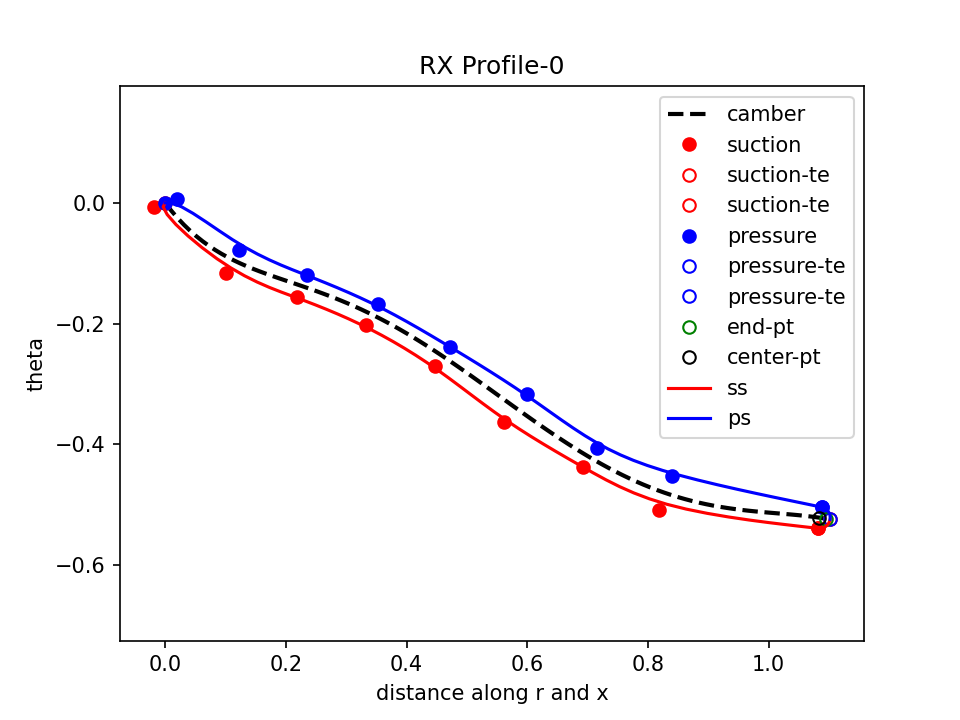
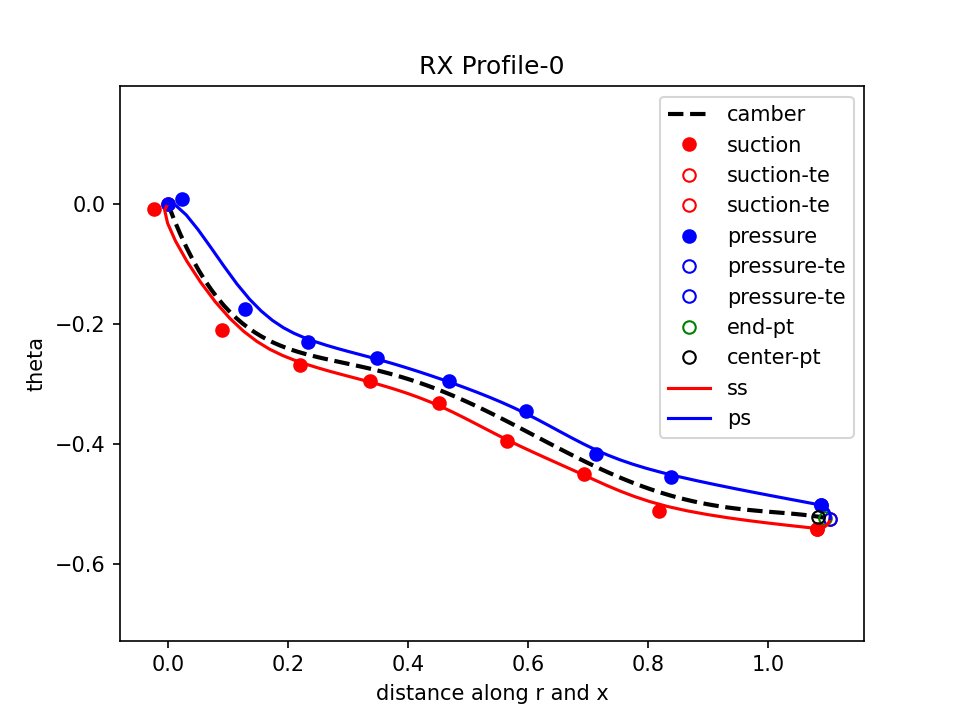
some changes

diff --git a/pyturbo/aero/centrif.py b/pyturbo/aero/centrif.py
@@ -14,7 +14,6 @@ class WaveDirection(Enum):
     x:int = 0
     r:int = 1
 
-
 @dataclass 
 class TrailingEdgeProperties:
     # Flat Trailing Edge 
@@ -61,8 +60,11 @@ class WavyBladeProperties:
     PS_Wave:npt.NDArray
     LE_Wave_angle:Optional[List[float]]=None
     TE_Wave_angle:Optional[List[float]]=None
-    
 
+@dataclass
+class SplitterProperties:    
+    position:Tuple[float,float] = (0.5,1)
+    
 @dataclass
 class CentrifProfile:
     percent_span:float                      
@@ -129,10 +131,10 @@ class Centrif:
     npts_chord:int              
     npts_span:int               
     
-    ss_pts:npt.NDArray          # shape=(nspan, nchord, 3)
-    ps_pts:npt.NDArray          # shape=(nspan, nchord, 3)
-    ss_profile_pts:npt.NDArray  # shape=(nprofile, nchord, 3)
-    ps_profile_pts:npt.NDArray  # shape=(nprofile, nchord, 3)
+    ss_pts_cart:npt.NDArray         # shape=(nspan, chord, 3) x,y,z
+    ps_pts_cart:npt.NDArray         # shape=(nspan, chord, 3) x,y,z
+    ss_pts_cyl:npt.NDArray          # shape=(nspan, nchord, 3)
+    ps_pts_cyl:npt.NDArray          # shape=(nspan, nchord, 3)
     ss_rx_pts:npt.NDArray       # shape=(nprofile,nchord,6), 6 = rx,theta,r,x,t_camber,t_span
     ps_rx_pts:npt.NDArray
     camb_rx_func:List[PchipInterpolator]
@@ -481,23 +483,34 @@ class Centrif:
             self.ss_rx_pts[i,:,5] = self.t_span[i,:] # tspan 
             self.ps_rx_pts[i,:,5] = self.t_span[i,:] 
             
+    def __build_splitter__(self):
+        """Builds the splitter 
+        """
+        for profile in self.profiles:
+            npoint_ss = len(profile.ss_thickness)+3 # LE Start, Leading Edge Thickness, SS_Thickness, TE_Radius
+            npoint_ps = len(profile.ss_thickness)+3 # LE Start, Leading Edge Thickness, SS_Thickness, TE_Radius
+            SS = np.zeros((npoint_ss,2)); PS = np.zeros((npoint_ps,2))  # rx, theta 
             
             
+
+        cx,cy = self.camber.get_point(self.splitter_camber_start)
+        dx,dy = self.camber.get_point_dt(self.splitter_camber_start)
+
     def __interpolate__(self):    
         """Interpolate the control profiles and get x,r,th
         """
-        self.ss_pts = np.zeros(shape=(self.npts_span,self.npts_chord,3)) # 3 = (x,r,theta)
-        self.ps_pts = np.zeros(shape=(self.npts_span,self.npts_chord,3)) # 3 = (x,r,theta)
+        self.ss_pts_cyl = np.zeros(shape=(self.npts_span,self.npts_chord,3)) # 3 = (x,r,theta)
+        self.ps_pts_cyl = np.zeros(shape=(self.npts_span,self.npts_chord,3)) # 3 = (x,r,theta)
         
         for j in range(self.npts_chord):
             tspan = np.linspace(0,self.t_span[-1,j],self.ss_rx_pts.shape[0])
-            self.ss_pts[:,j,0] = csapi(tspan,self.ss_rx_pts[:,j,3],self.t_span[:,j])   # x
-            self.ss_pts[:,j,1] = csapi(tspan,self.ss_rx_pts[:,j,2],self.t_span[:,j])   # r
-            self.ss_pts[:,j,2] = csapi(tspan,self.ss_rx_pts[:,j,1],self.t_span[:,j])   # th
+            self.ss_pts_cyl[:,j,0] = csapi(tspan,self.ss_rx_pts[:,j,3],self.t_span[:,j])   # x
+            self.ss_pts_cyl[:,j,1] = csapi(tspan,self.ss_rx_pts[:,j,2],self.t_span[:,j])   # r
+            self.ss_pts_cyl[:,j,2] = csapi(tspan,self.ss_rx_pts[:,j,1],self.t_span[:,j])   # th
             
-            self.ps_pts[:,j,0] = csapi(tspan,self.ps_rx_pts[:,j,3],self.t_span[:,j])   # x
-            self.ps_pts[:,j,1] = csapi(tspan,self.ps_rx_pts[:,j,2],self.t_span[:,j])   # r
-            self.ps_pts[:,j,2] = csapi(tspan,self.ps_rx_pts[:,j,1],self.t_span[:,j])   # th
+            self.ps_pts_cyl[:,j,0] = csapi(tspan,self.ps_rx_pts[:,j,3],self.t_span[:,j])   # x
+            self.ps_pts_cyl[:,j,1] = csapi(tspan,self.ps_rx_pts[:,j,2],self.t_span[:,j])   # r
+            self.ps_pts_cyl[:,j,2] = csapi(tspan,self.ps_rx_pts[:,j,1],self.t_span[:,j])   # th
             
             
     
@@ -516,12 +529,15 @@ class Centrif:
             t2 = cut.get_t(cut.length-self.tip_clearance)
             self.t_span[:,j] = exp_ratio(1.2,self.npts_span,maxvalue=t2)
     
-    def build(self,npts_span:int=100, npts_chord:int=100):
+    def build(self,npts_span:int=100, npts_chord:int=100,nblades:int=3,splitters:int=1):
         """Build the centrif blade 
 
         Args:
-            npts_span (int, optional): _description_. Defaults to 100.
-            npts_chord (int, optional): _description_. Defaults to 100.
+            npts_span (int, optional): number of points in spanwise direction. Defaults to 100.
+            npts_chord (int, optional): number of points in chord. Defaults to 100.
+            nblades (int, optional): number of blades. Defaults to 3
+            splitters (int, optional): splitters in between blades. Defaults to 1
+            
         """
         self.npts_chord = npts_chord; self.npts_span = npts_span
         self.t_hub = np.linspace(0,1,npts_chord)
@@ -538,6 +554,8 @@ class Centrif:
         self.__tip_clearance__()
         self.__apply_thickness__()  # Creates the flattened profiles
         self.__interpolate__()
+        
+        self.__add_splitter__()
         
     def plot_camber(self,plot_hub_shroud:bool=True):
         """Plot the camber line
@@ -608,11 +626,23 @@ class Centrif:
             plt.plot(p.ss_rx_pts[i,:,3],p.ss_rx_pts[i,:,1],'r-',label='ss')
             plt.plot(p.ps_rx_pts[i,:,3],p.ps_rx_pts[i,:,1],'b-',label='ps')
             plt.legend()
-            plt.xlabel('Distance along x')
+            plt.xlabel('X')
             plt.ylabel('Theta')
             plt.title(f'X-Theta Profile-{i}')
             plt.axis('equal')
             plt.savefig(f'profile x-theta {i:02d}.png',dpi=150)
+            
+            plt.figure(num=i,clear=True)    # theta-r view
+            xrth = self.get_camber_points(i,self.t_hub,self.t_camber)
+            plt.plot(xrth[:,2],xrth[:,1], color='black', linestyle='dashed',linewidth=2,label='camber')
+            plt.plot(p.ss_rx_pts[i,:,1],p.ss_rx_pts[i,:,2],'r-',label='ss')
+            plt.plot(p.ps_rx_pts[i,:,1],p.ps_rx_pts[i,:,2],'b-',label='ps')
+            plt.legend()
+            plt.xlabel('Theta')
+            plt.ylabel('R')
+            plt.title(f'Theta-r Profile-{i}')
+            plt.axis('equal')
+            plt.savefig(f'profile theta-r {i:02d}.png',dpi=150)
             
             
     def plot(self):
@@ -622,9 +652,9 @@ class Centrif:
         ax = fig.add_subplot(111, projection='3d')
         # ax.plot3D(self.hub_pts[:,0],self.hub_pts[:,0]*0,self.hub_pts[:,2],'k')
         # ax.plot3D(self.shroud_pts[:,0],self.shroud_pts[:,0]*0,self.shroud_pts[:,2],'k')
-        for i in range(self.ss_pts.shape[0]):
-            ax.plot3D(self.ss_pts[i,:,0],self.ss_pts[i,:,2],self.ss_pts[i,:,1],'r') # x,
-            ax.plot3D(self.ps_pts[i,:,0],self.ps_pts[i,:,2],self.ps_pts[i,:,1],'b')
+        for i in range(self.ss_pts_cyl.shape[0]):
+            ax.plot3D(self.ss_pts_cyl[i,:,0],self.ss_pts_cyl[i,:,2],self.ss_pts_cyl[i,:,1],'r') # x,
+            ax.plot3D(self.ps_pts_cyl[i,:,0],self.ps_pts_cyl[i,:,2],self.ps_pts_cyl[i,:,1],'b')
         ax.set_xlabel('x-axial')
         ax.set_ylabel('theta')
         ax.set_zlabel('r-radial')
@@ -638,8 +668,8 @@ class Centrif:
     def plot_front_view(self):
         plt.figure(num=1,clear=True) # Front view theta-r
         for i in range(self.npts_span):
-            plt.plot(self.ss_pts[i,:,1],self.ss_pts[i,:,2])         # rx,theta,r,x,t_camber,t_span
-            plt.plot(self.ps_pts[i,:,1],self.ps_pts[i,:,2])
+            plt.plot(self.ss_pts_cyl[i,:,1],self.ss_pts_cyl[i,:,2])         # rx,theta,r,x,t_camber,t_span
+            plt.plot(self.ps_pts_cyl[i,:,1],self.ps_pts_cyl[i,:,2])
         plt.xlabel('theta')
         plt.ylabel('r')
         plt.title(f'Theta-r Profile-{i}')

diff --git a/tests/centrif_test.py b/tests/centrif_test.py
@@ -13,18 +13,18 @@ def test_passage():
     cen.add_hub(hub[:,0],hub[:,1])
     cen.add_shroud(shroud[:,0],shroud[:,1])
     
-    LE_Thickness = 0.02
+    LE_Thickness = 0.025
     LE_Metal_Angle = -70
     TE_Metal_Angle = 15
-    LE_Metal_Angle_Loc = 0.1
+    LE_Metal_Angle_Loc = 0.2
     TE_Metal_Angle_Loc = 0.85
     warp_angle=-30
     warp_displacements = [0.3, -0.3]
     warp_displacement_locs = [0.37,0.64]
-    ss_thickness = np.array([0.025,0.02,0.02,0.02,0.03,0.02,0.03])
+    ss_thickness = np.array([0.03,0.02,0.02,0.02,0.03,0.02,0.03])
     ps_thickness = np.array([0.02,0.02,0.02,0.02,0.03,0.02,0.03])
     
-    te_props = DefineCircularTE(radius=0.018,major_axis_scale=1,SS_WedgeAngle=5,PS_WedgeAngle=3)
+    te_props = DefineCircularTE(radius=0.02,major_axis_scale=1,SS_WedgeAngle=5,PS_WedgeAngle=3)
     cen.add_profile(CentrifProfile(percent_span=0,LE_Thickness=LE_Thickness,
                                    trailing_edge_properties=te_props,
                                    LE_Metal_Angle=LE_Metal_Angle,TE_Metal_Angle=TE_Metal_Angle,
@@ -33,7 +33,7 @@ def test_passage():
                                    ps_thickness=ps_thickness,
                                    warp_angle=warp_angle,warp_displacements=warp_displacements,
                                    warp_displacement_locs=warp_displacement_locs))
-    LE_Thickness = 0.02*0.7
+    LE_Thickness *= 0.9
     te_props = DefineCircularTE(radius=0.018*0.5,major_axis_scale=1,SS_WedgeAngle=5,PS_WedgeAngle=3)
     cen.add_profile(CentrifProfile(percent_span=0.5,LE_Thickness=LE_Thickness,
                                    trailing_edge_properties=te_props,
@@ -43,8 +43,8 @@ def test_passage():
                                    ps_thickness=ps_thickness*0.5,   
                                    warp_angle=warp_angle,warp_displacements=warp_displacements,
                                    warp_displacement_locs=warp_displacement_locs))
-    scale = 0.4
-    LE_Thickness = 0.02*scale
+    scale = 0.8
+    LE_Thickness *= scale
     te_props = DefineCircularTE(radius=0.018*scale,major_axis_scale=1,SS_WedgeAngle=5,PS_WedgeAngle=3)
     cen.add_profile(CentrifProfile(percent_span=1.0,LE_Thickness=LE_Thickness,
                                    trailing_edge_properties=te_props,
@@ -55,8 +55,8 @@ def test_passage():
                                    warp_angle=warp_angle,warp_displacements=warp_displacements,
                                    warp_displacement_locs=warp_displacement_locs))
     cen.build()
-    cen.plot()
-    # cen.plot_rx_profile()
+    # cen.plot()
+    cen.plot_rx_profile()
     # cen.plot_camber()
 if __name__ == "__main__":
     test_passage()
